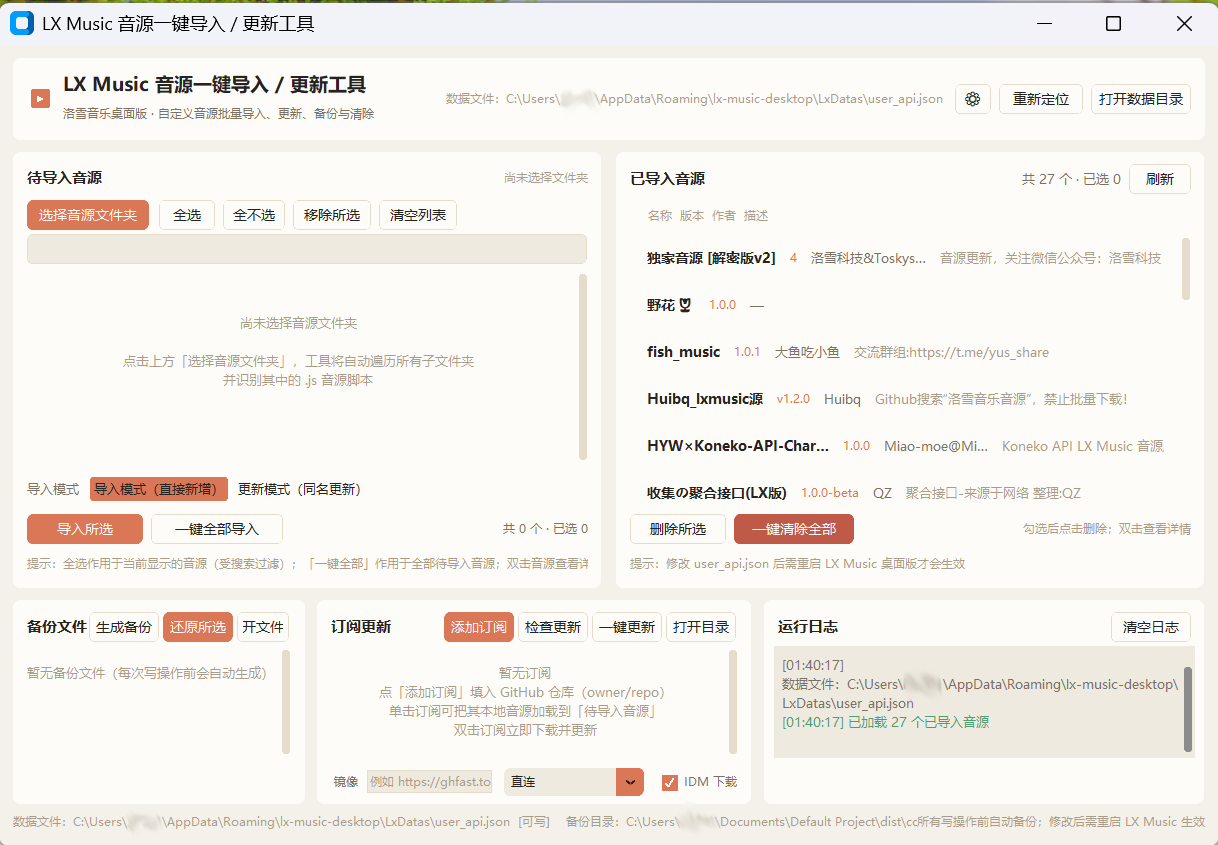
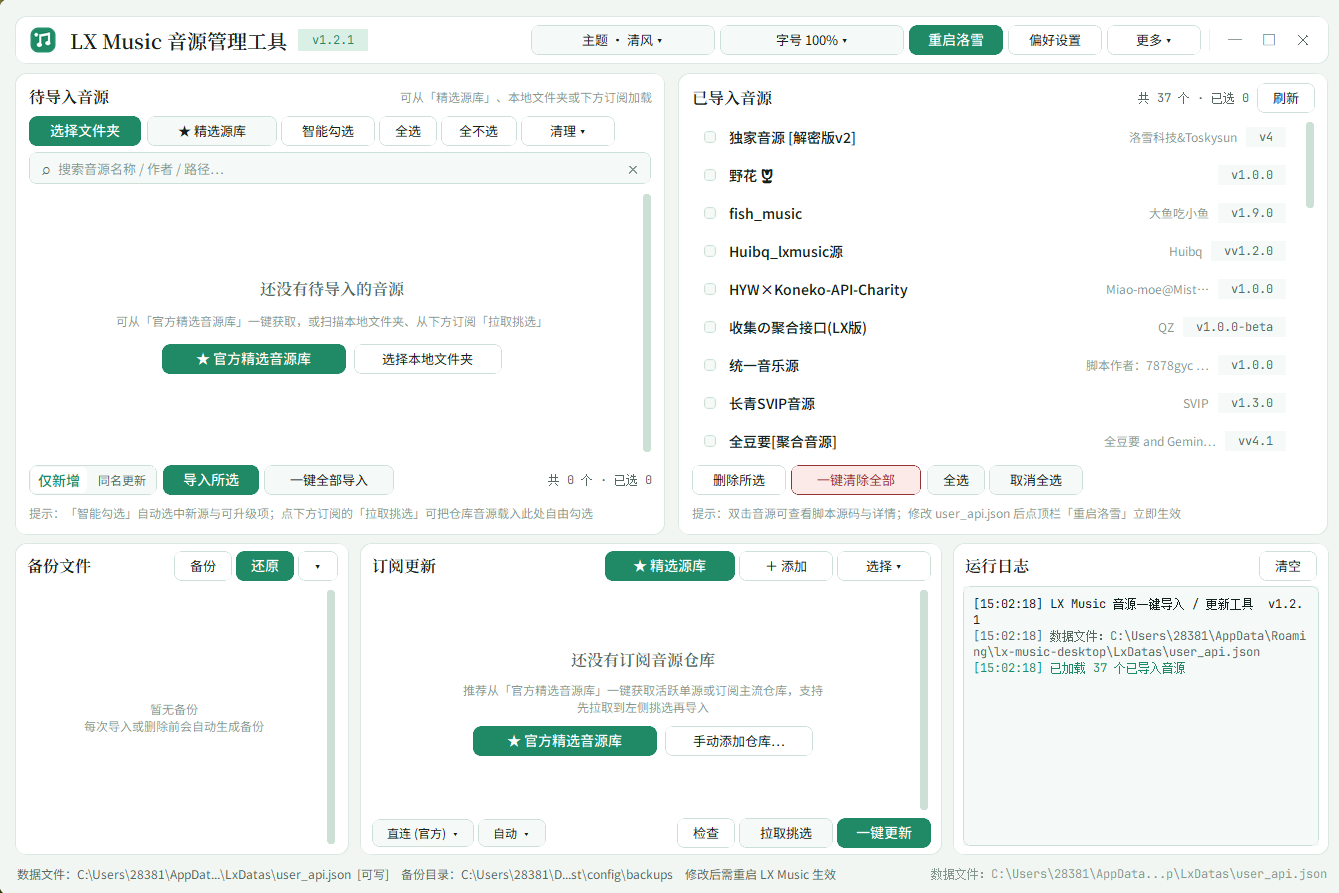
docs: 更新 v1.2.1 界面预览图（展示四套主题配色）

diff --git a/TASKS.md b/TASKS.md
@@ -48,7 +48,7 @@
 
 ## 已完成
 
-- [x] **TASK-022 主题顺序与命名调整（默认「清风（洛雪）」）+ README 版权保护声明完善 + EXE 打包与 Git 提交**（v1.2.1）
+- [x] **TASK-022 主题顺序与命名调整（默认「清风（洛雪）」）+ README 版权保护声明完善 + EXE 打包与 Git 提交**（v1.2.1，commit `8258658`）
   - 调整 `THEME_ORDER = ['green', 'claude', 'ocean', 'dark']` 与四套主题显示名称：`清风（洛雪）` / `暖砂（类Claude）` / `鲸蓝（类Deepseek）` / `星月（暗夜）`
   - 默认主题改为 `green`（`清风（洛雪）`），同步更新 `DEFAULT_SETTINGS['theme']`、`apply_theme` 默认回退值与自检断言
   - 更新 `README.md` 与源码头部文档，明确标注非官方开源爱好者作品声明、与洛雪官方/Anthropic/DeepSeek 无关联声明、色彩风格描述性说明及 OFL-1.1 开源字体许可声明

diff --git a/README.md b/README.md
@@ -45,7 +45,17 @@
 
 ## 界面预览
 
-![界面预览](exe.png)
+### 默认主题：清风（洛雪）
+
+![清风（洛雪）](exe.png)
+
+### 四套主题一览
+
+| 清风（洛雪 · 默认） | 暖砂（类Claude） |
+| :---: | :---: |
+| ![清风（洛雪）](preview_green.png) | ![暖砂（类Claude）](preview_claude.png) |
+| **鲸蓝（类Deepseek）** | **星月（暗夜）** |
+| ![鲸蓝（类Deepseek）](preview_ocean.png) | ![星月（暗夜）](preview_dark.png) |
 
 ## 使用
 
